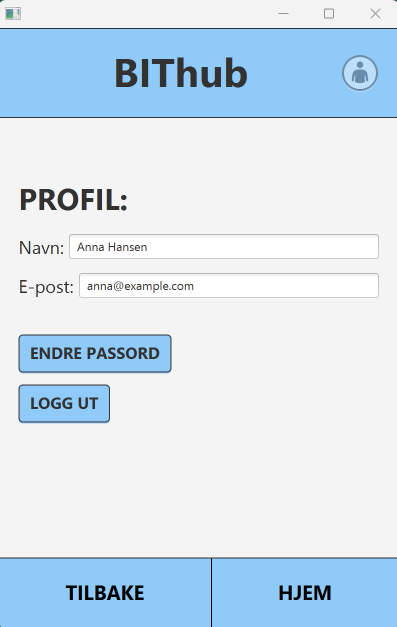
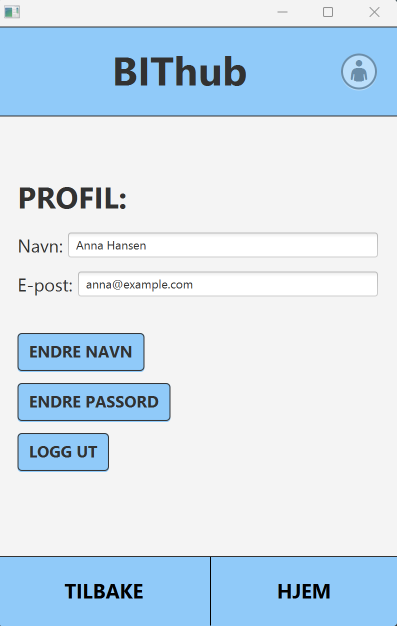
Oppdater release3.md med de siste funksjonene
Funksjonstabellen tar med navnebytte, stjerner og en anmeldelse per
emne. Skjermbildene som manglet er tatt, og bildene av profilsiden
og skjemaet viser appen slik den er nå.

ref #209

diff --git a/docs/release3/release3.md b/docs/release3/release3.md
@@ -45,15 +45,21 @@ brukerkontoer og funksjonene fra brukerhistorie 4–7 (3.b). Samtidig ville vi h
 | Gjestemodus | Fortsette uten konto og lese anmeldelser | #183 |
 | Emnesøk | Filtrere emnelisten på emnekode eller emnenavn mens man skriver | #182 |
 | Skrive anmeldelser | Skrive en anmeldelse med navn eller anonymt. Krever innlogging. | #176, #183 |
+| En anmeldelse per emne | Skrive en anmeldelse per emne. Vil man endre den, gjør man det under «Mine anmeldelser» | #251 |
+| Stjerner | Gi emnet fra en til fem stjerner, og se vurderingene og gjennomsnittet som stjerner | #237 |
 | Mine anmeldelser | Se, endre og slette egne anmeldelser | #177, #181 |
-| Profil | Se navn og e-post, bytte passord og logge ut | #179 |
+| Profil | Se navn og e-post, endre navn og passord, og logge ut | #179, #236 |
 | Vis passord | Vise passordet mens man skriver det | #215 |
 | Glemt passord | Lese hva man gjør hvis man har glemt passordet | #216 |
 | Infoside | Lese om appen, anonymitet og retningslinjer for anmeldelser | #217 |
 | Alle emner | Velge blant alle emnene i studieplanen | #221 |
 
-På profilsiden kan brukeren se navn og e-post, men bare endre passordet. Appen kan ikke tilbakestille passord,
+På profilsiden kan brukeren se navn og e-post, og endre navn og passord. Det nye navnet vises også på
+anmeldelsene brukeren har skrevet med navn. E-posten kan ikke endres. Appen kan ikke tilbakestille passord,
 fordi det ville krevd at den sender e-post. Infosiden forklarer i stedet hva man gjør.
+
+Prøver en bruker å skrive en ny anmeldelse av et emne vedkommende allerede har anmeldt, svarer serveren med
+`409 Conflict`, og appen viser en melding om at anmeldelsen kan endres under «Mine anmeldelser».
 
 I tillegg har vi forbedret det som fantes fra før: Lange emnenavn vises i hele i skjemaet (#199), søkefeltet har fått
 samme stil som resten av appen (#219), og profilknappen virker på alle sidene (#232).
@@ -166,7 +172,7 @@ Dette er endret i arkitekturen siden release 2:
 - **REST-kall i bakgrunnen:** Alle kall til serveren går gjennom
   [`BackgroundTaskRunner`](../../bithub/ui/src/main/java/ui/util/BackgroundTaskRunner.java), slik at appen ikke
   fryser mens den venter på svar (#173). Mønsteret er beskrevet i [javafx.md](javafx.md).
-- **Søk uten nye REST-kall:** Emnelisten hentes én gang, og søket filtrerer den lokalt (#182).
+- **Søk uten nye REST-kall:** Emnelisten hentes en gang, og søket filtrerer den lokalt (#182).
 - **Fortsatt JSON-filer:** Vi lagrer fortsatt i JSON, men bare serveren leser og skriver filene. Lagringen er
   beskyttet mot samtidige forespørsler (#149) og er beskrevet i [persistence.md](persistence.md).
 
@@ -231,7 +237,7 @@ Eksempeldataene fra release 2 ligger fortsatt i [docs/release2/eksempeldata/](..
 | Emne | Anmeldelser |
 | --- | --- |
 | IT1901 Informatikk prosjektarbeid I | Anna med navn, Emil anonym |
-| TDT4100 Objektorientert programmering | Anna anonym, én gammel uten eier |
+| TDT4100 Objektorientert programmering | Anna anonym, en gammel uten eier |
 | IT2805 Webteknologi | Emil med navn |
 
 ### Testbrukere
@@ -272,7 +278,7 @@ Copy-Item docs\release3\eksempeldata\courses.json, docs\release3\eksempeldata\us
 
 `$HOME` skal stå akkurat slik. PowerShell bytter det ut med hjemmemappen din.
 
-Start så serveren og appen som beskrevet i [README](/README.md). Serveren
+Start så serveren og appen som beskrevet i [README](../../README.md#kjøre-lokalt). Serveren
 legger til standardemner som mangler, så emnelisten inneholder flere emner enn
 de tre i eksempelfilen.
 
